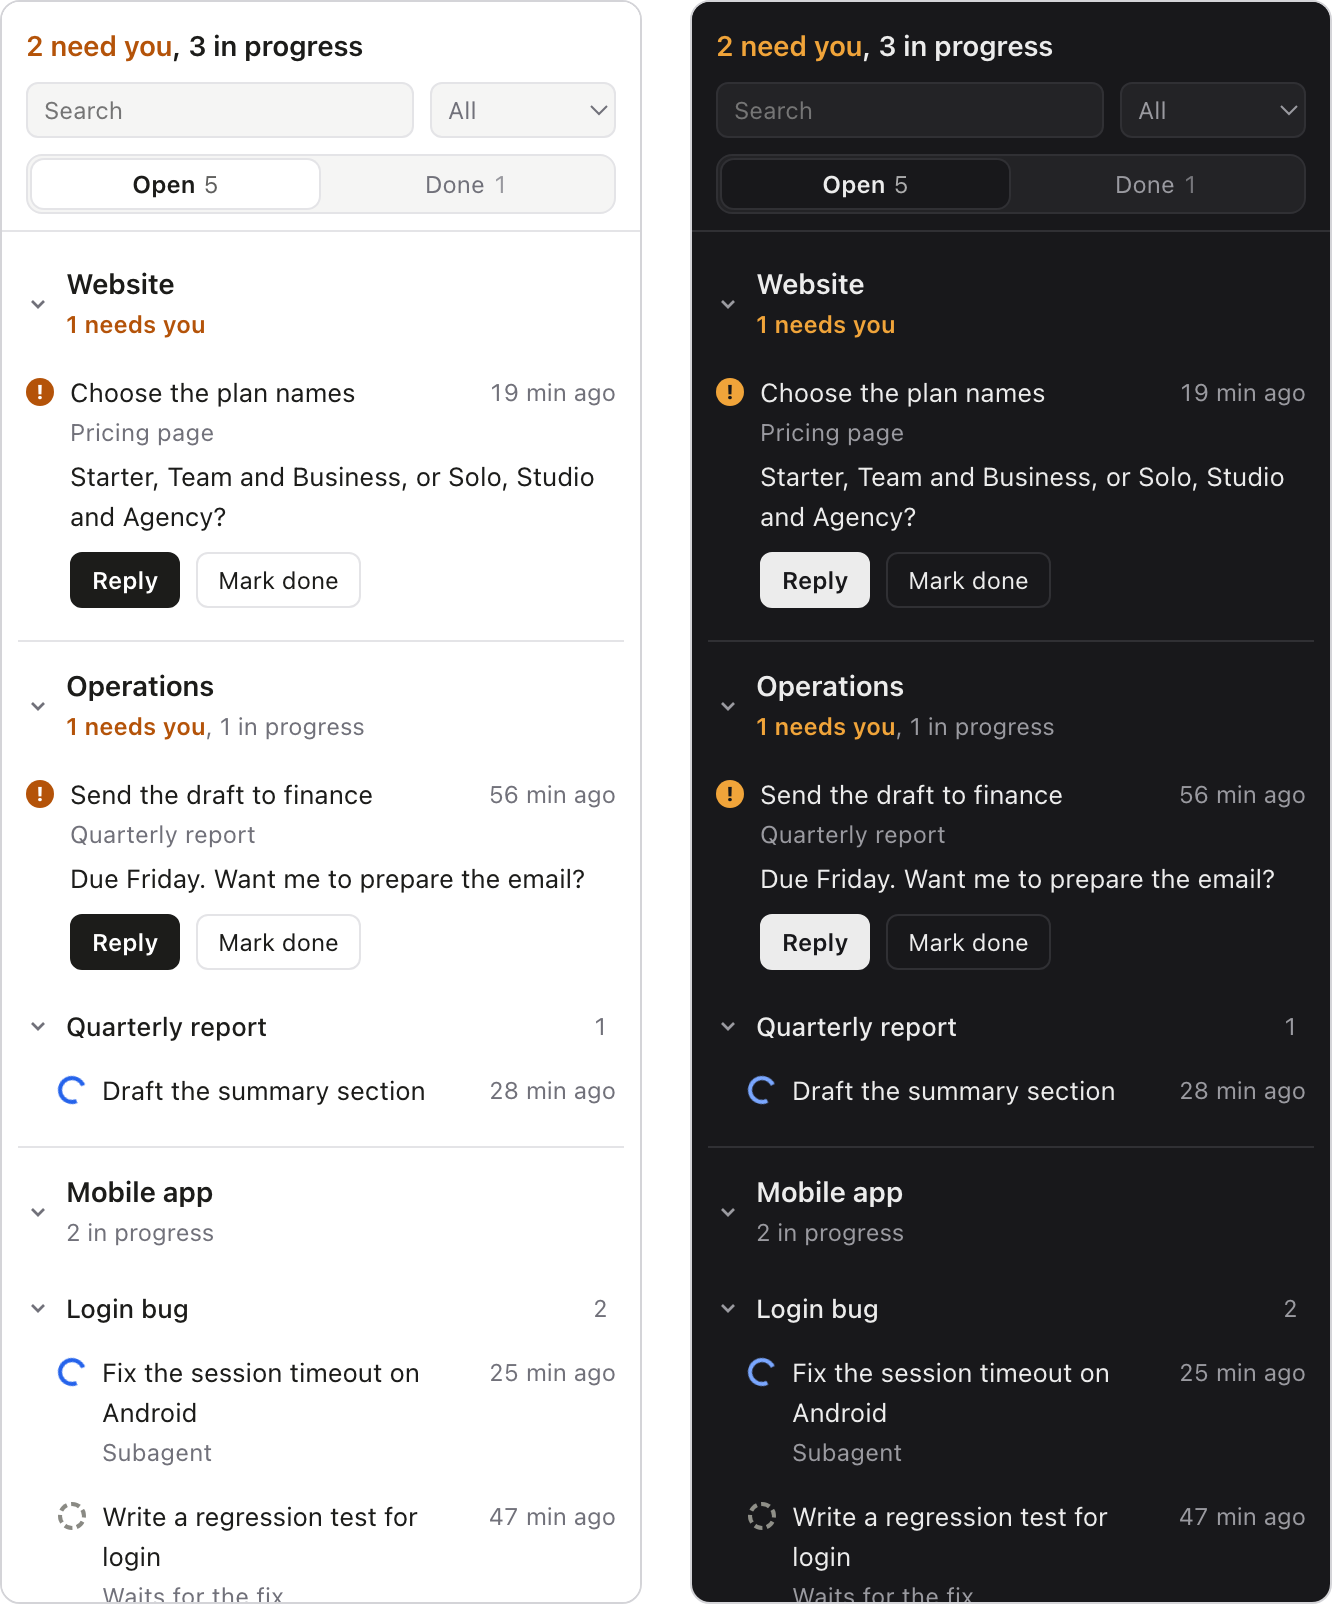
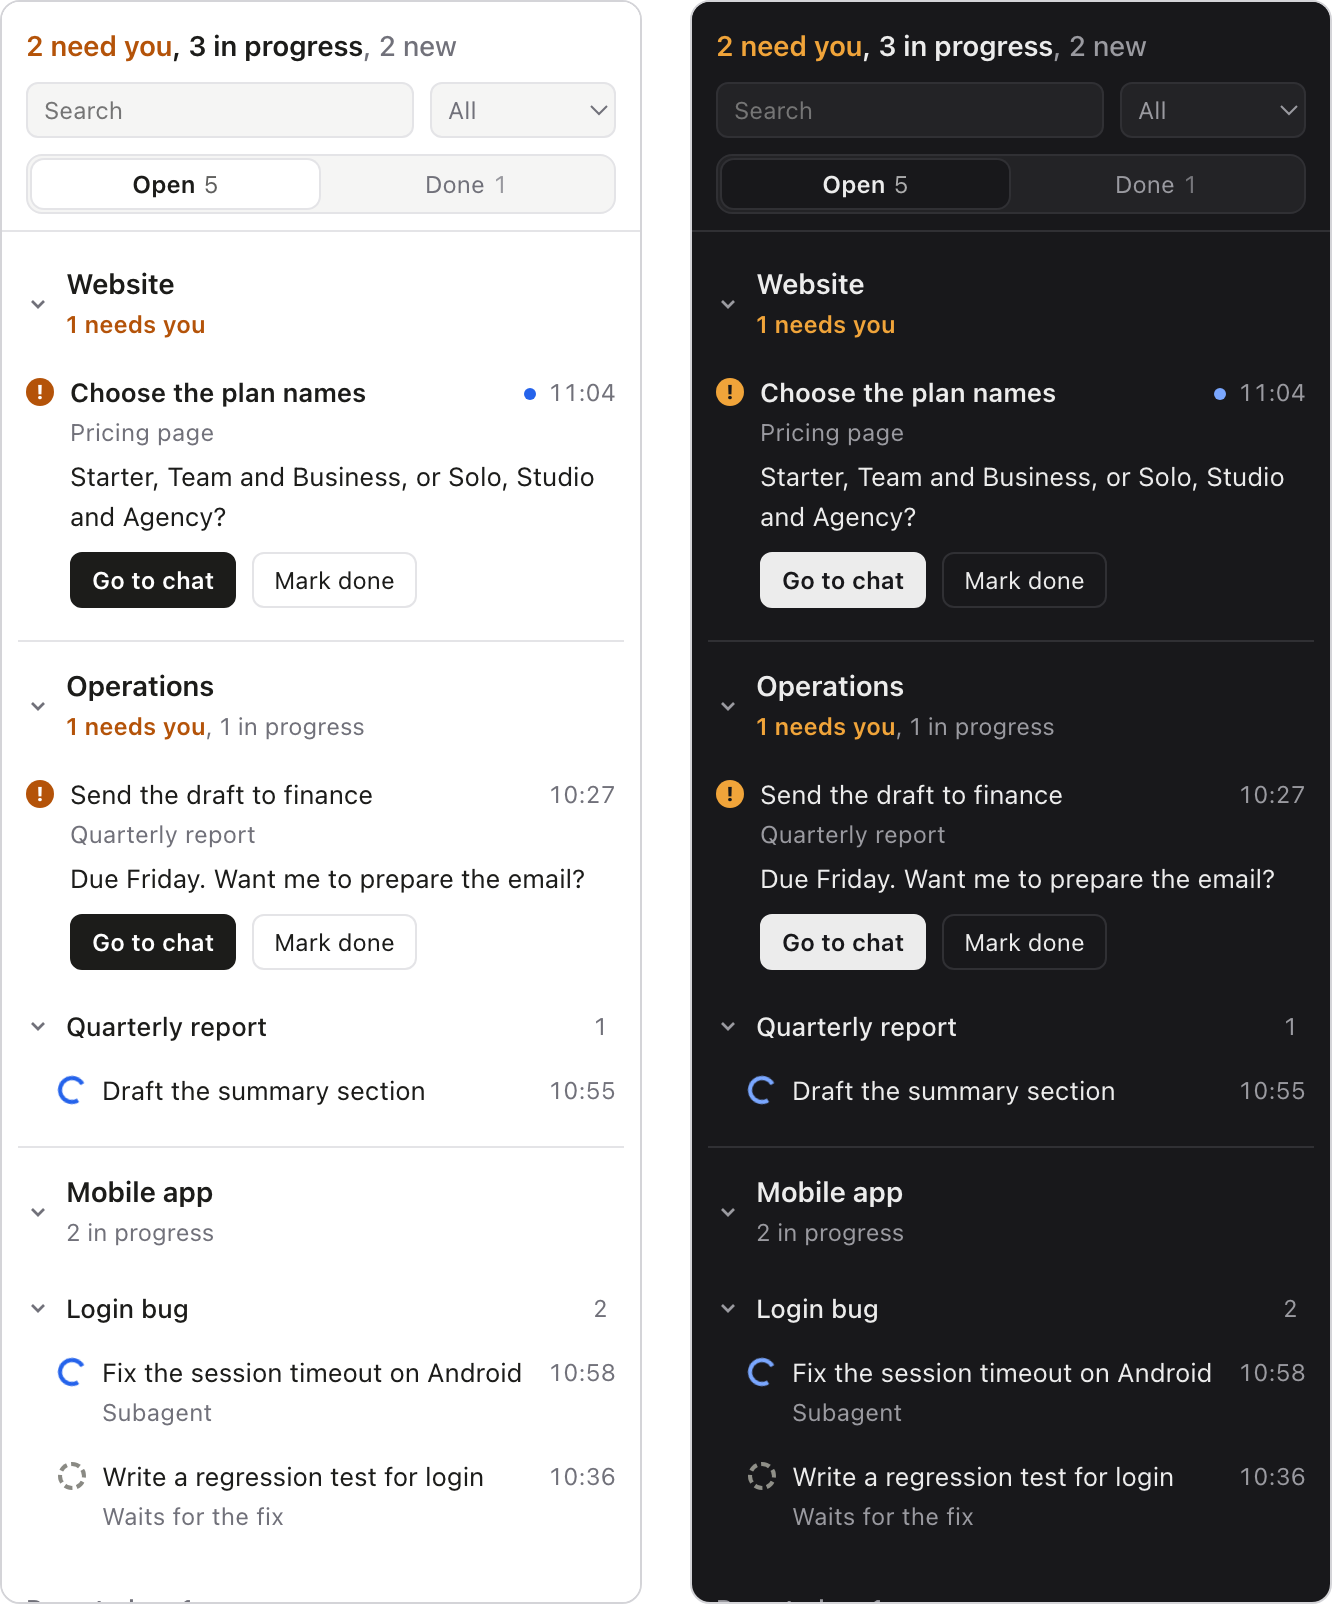
Go to chat, and unread updates
Each request remembers the Orca chat it was last updated from. "Go to
chat" switches Orca to that terminal and copies the reference; if the
chat has closed, the request stays open and the panel says so.

Claude's changes now mark a request as new. It counts as read once the
user opens it in the panel or writes in that chat, and the status bar
only turns orange for new requests that need the user.

Requests close only when addressed, never because a session ends, and
an answer from the user moves them on.

diff --git a/orca/panel/panel.js b/orca/panel/panel.js
@@ -95,8 +95,15 @@
     return [i.title, i.said, i.answer, i.question, i.via, t.topic, t.project].join(' ').toLowerCase().includes(view.query)
   }
   const newest = (a, b) => b.updated.localeCompare(a.updated)
+  // Same rule as the store: Claude changed it after the user last saw it.
+  const isUnread = (i) => Boolean(i.changed) && (!i.seen || i.seen < i.changed)
 
   // ---------- Pieces
+  // Takes you to the request's chat when it knows which one; otherwise copies the reference.
+  function replyButton(i, primary) {
+    const label = i.origin ? 'Go to chat' : 'Copy reference'
+    return `<button class="${primary ? 'primary' : ''}" data-action="goto">${label}</button>`
+  }
   function row(i, { meta, card } = {}) {
     const open = view.expanded === i.id
     return `<button class="row" data-action="expand" aria-expanded="${open}">
@@ -106,7 +113,7 @@
         ${meta ? `<span class="meta">${esc(meta)}</span>` : ''}
         ${!card && i.status === 'done' && i.answer && !open ? `<span class="preview">${esc(i.answer)}</span>` : ''}
       </span>
-      <span class="when">${when(i.updated)}</span>
+      <span class="when">${isUnread(i) ? '<span class="new-dot" role="img" aria-label="New"></span>' : ''}${when(i.updated)}</span>
     </button>`
   }
 
@@ -114,9 +121,9 @@
     const confirming = view.confirming === i.id
     const waiting = i.status === 'need'
     return `<div class="actions">
-      ${waiting ? `<button class="primary" data-action="reply">Reply</button>` : ''}
+      ${waiting ? replyButton(i, true) : ''}
       ${i.status === 'done' ? `<button data-action="reopen">Reopen</button>` : `<button data-action="done">Mark done</button>`}
-      ${waiting ? '' : `<button data-action="reply">Copy reference</button>`}
+      ${waiting ? '' : replyButton(i, false)}
       <button data-action="remove" class="${confirming ? 'confirm' : ''}">${confirming ? 'Sure? Remove' : 'Remove'}</button>
     </div>`
   }
@@ -133,20 +140,26 @@
   }
 
   function item(i, options = {}) {
-    const classes = ['item', view.expanded === i.id ? 'open' : '', i.status === 'done' ? 'is-done' : '', view.changed.has(i.id) ? 'changed' : '']
+    const classes = [
+      'item',
+      view.expanded === i.id ? 'open' : '',
+      i.status === 'done' ? 'is-done' : '',
+      isUnread(i) ? 'unread' : '',
+      view.changed.has(i.id) ? 'changed' : ''
+    ]
     return `<div class="${classes.join(' ')}" data-id="${esc(i.id)}">${row(i, options)}${detail(i)}</div>`
   }
 
   function card(i) {
     const t = threadOf(i)
     const open = view.expanded === i.id
-    const classes = ['card', open ? 'open' : '', view.changed.has(i.id) ? 'changed' : '']
+    const classes = ['card', open ? 'open' : '', isUnread(i) ? 'unread' : '', view.changed.has(i.id) ? 'changed' : '']
     return `<div class="${classes.join(' ')}" data-id="${esc(i.id)}">
       ${row(i, { meta: t.topic, card: true })}
       ${i.question ? `<p class="question">${esc(i.question)}</p>` : ''}
       ${open
         ? detail(i, { noQuestion: true })
-        : `<div class="actions"><button class="primary" data-action="reply">Reply</button><button data-action="done">Mark done</button></div>`}
+        : `<div class="actions">${replyButton(i, true)}<button data-action="done">Mark done</button></div>`}
     </div>`
   }
 
@@ -179,6 +192,8 @@
     else if (n.need) sentence = needs
     else if (n.moving) sentence = `${n.moving} in progress, nothing waiting on you`
     else sentence = `<span class="calm">All clear</span>`
+    const fresh = all.filter(isUnread).length
+    if (fresh) sentence += `<span class="calm">, ${fresh} new</span>`
     $('summary').innerHTML = sentence
 
     const projects = [...new Set(view.snapshot.data.threads.map((t) => t.project))].sort((a, b) => a.localeCompare(b))
@@ -405,13 +420,33 @@
     if (action === 'expand') {
       view.expanded = view.expanded === id ? null : id
       view.confirming = null
-      return draw()
+      draw()
+      // Opening it counts as reading it.
+      if (view.expanded === id && current && isUnread(current)) {
+        try {
+          receive(await ask('requests.seen', { id }))
+        } catch {}
+      }
+      return
     }
-    if (action === 'reply') {
+    if (action === 'goto') {
+      // Copy first: the clipboard only works right after the click.
       const ref = `[${id}]`
-      return copy(ref + ' ')
-        ? toast(`Copied ${ref}. Paste it in Claude's terminal and type your reply after it.`)
-        : toast(`Start your message to Claude with ${ref} and type your reply after it.`)
+      const copied = copy(ref + ' ')
+      const paste = copied ? `${ref} is copied: paste it and write your reply.` : `Start your message with ${ref}.`
+      if (!current?.origin) {
+        return toast(copied ? `Copied ${ref}. Paste it in Claude's chat and write your reply after it.` : `Start your message to Claude with ${ref}.`)
+      }
+      try {
+        const r = await ask('requests.goto', { id })
+        receive(r.snapshot)
+        if (r.result === 'switched') toast(`Opened the chat. ${paste}`)
+        else if (r.result === 'closed') toast(`That chat is closed. The request stays open. ${paste}`)
+        else toast(`Couldn't open the chat. ${paste}`)
+      } catch (error) {
+        toast(`Couldn't open the chat: ${error.message}`)
+      }
+      return
     }
     if (!current) return
     try {

diff --git a/orca/panel/panel.css b/orca/panel/panel.css
@@ -142,6 +142,11 @@ button.section:hover { color: var(--text); }
 .row > span:nth-child(2) { min-width: 0; }
 .item > .row:hover, .item.open > .row, .card > .row:hover { background: var(--hover); }
 .title { display: block; overflow-wrap: anywhere; }
+.unread > .row .title { font-weight: 600; }
+.new-dot {
+  display: inline-block; width: 6px; height: 6px; margin: 0 6px 1px 0;
+  border-radius: 50%; background: var(--run); vertical-align: middle;
+}
 .is-done .title { color: var(--muted); }
 .when { font-size: var(--t-meta); line-height: var(--lh-meta); color: var(--muted); white-space: nowrap; font-variant-numeric: tabular-nums; }
 .preview {

diff --git a/claude/INSTRUCTIONS.md b/claude/INSTRUCTIONS.md
@@ -13,9 +13,9 @@ The user may send several things in a row in the same chat, related or not, and 
 3. **Log it before you start on it:**
    `{{CLI}} new --project "<project>" --thread "<thread>" --title "<what, starting with a verb>" --said "<the user's exact words for this request>" --status working`
    Use `--status queued` if it has to wait for something else.
-4. **Close it when you finish:** `{{CLI}} update <id> --status done --answer "<one or two sentences on what happened>"`, plus `--file <path>` for every file that came out of it.
+4. **Close it only when it is addressed:** `{{CLI}} update <id> --status done --answer "<one or two sentences on what happened>"`, plus `--file <path>` for every file that came out of it. Addressed means what the user asked for is done or settled, or they say so. The list follows the user's topics, not your sessions or agents: don't close a request because a session ends, a subagent finishes a step or you move on to something else. If part of it is left, keep it open and say what's left in `--answer`.
 5. **If you need something from the user** (a decision, a fact, an approval): `--status needs-you --question "<the question, short>"`. If it is a task for them (a reminder), it also goes in needs-you, with `--via "Reminder"`.
-   **A request that needs the user stays open until they answer that question.** If their next message is about something else, leave it as it is: don't close it, don't change it and don't take the new message as the answer. Only update it when they reply with its `[id]` or clearly answer what you asked. If you can't tell, ask.
+   **A request that needs the user stays open until they answer that question.** If their next message is about something else, leave it as it is: don't close it, don't change it and don't take the new message as the answer. Only update it when they reply with its `[id]` or clearly answer what you asked. If you can't tell, ask. **When they do answer, move it on right away:** to `working` while you act on the answer, or to `done` if the answer settles it.
 6. **If you hand it off** to a subagent or another session, say so in `--via` ("Subagent", "Docs session").
 7. **In your reply**, after logging them, write one short line: `→ 3 requests logged: Pricing page (2), Login bug (1)`. Don't repeat the whole list.
 

diff --git a/README.md b/README.md
@@ -43,10 +43,11 @@ Everything stays on your computer. There are no dependencies to install.
 ## Usage
 
 - Talk to Claude as usual. When it logs something, it adds a line like `→ 2 requests logged: Pricing page (1), Login bug (1)`.
-- Open the flag icon in Orca's right sidebar. Anything that needs you is listed first.
-- To answer one, press **Reply**, paste the reference into Claude's terminal and write after it: `[k3fp] the second option`.
+- Open the flag icon in Orca's right sidebar. Requests are grouped by project, and anything that needs you is listed first.
+- New updates from Claude show in bold with a dot. They count as read once you open them in the panel or write in the chat they came from.
+- To answer one, press **Go to chat**. Orca switches to the chat the request came from and copies its reference, so you can paste it and write after it: `[k3fp] the second option`.
 
-Quick questions Claude answers on the spot aren't logged. Anything that involves work is, even if it's finished in the same reply.
+Quick questions Claude answers on the spot aren't logged. Anything that involves work is, even if it's finished in the same reply. A request stays open until it's addressed, even if the chat it came from has closed.
 
 ## Updating
 
